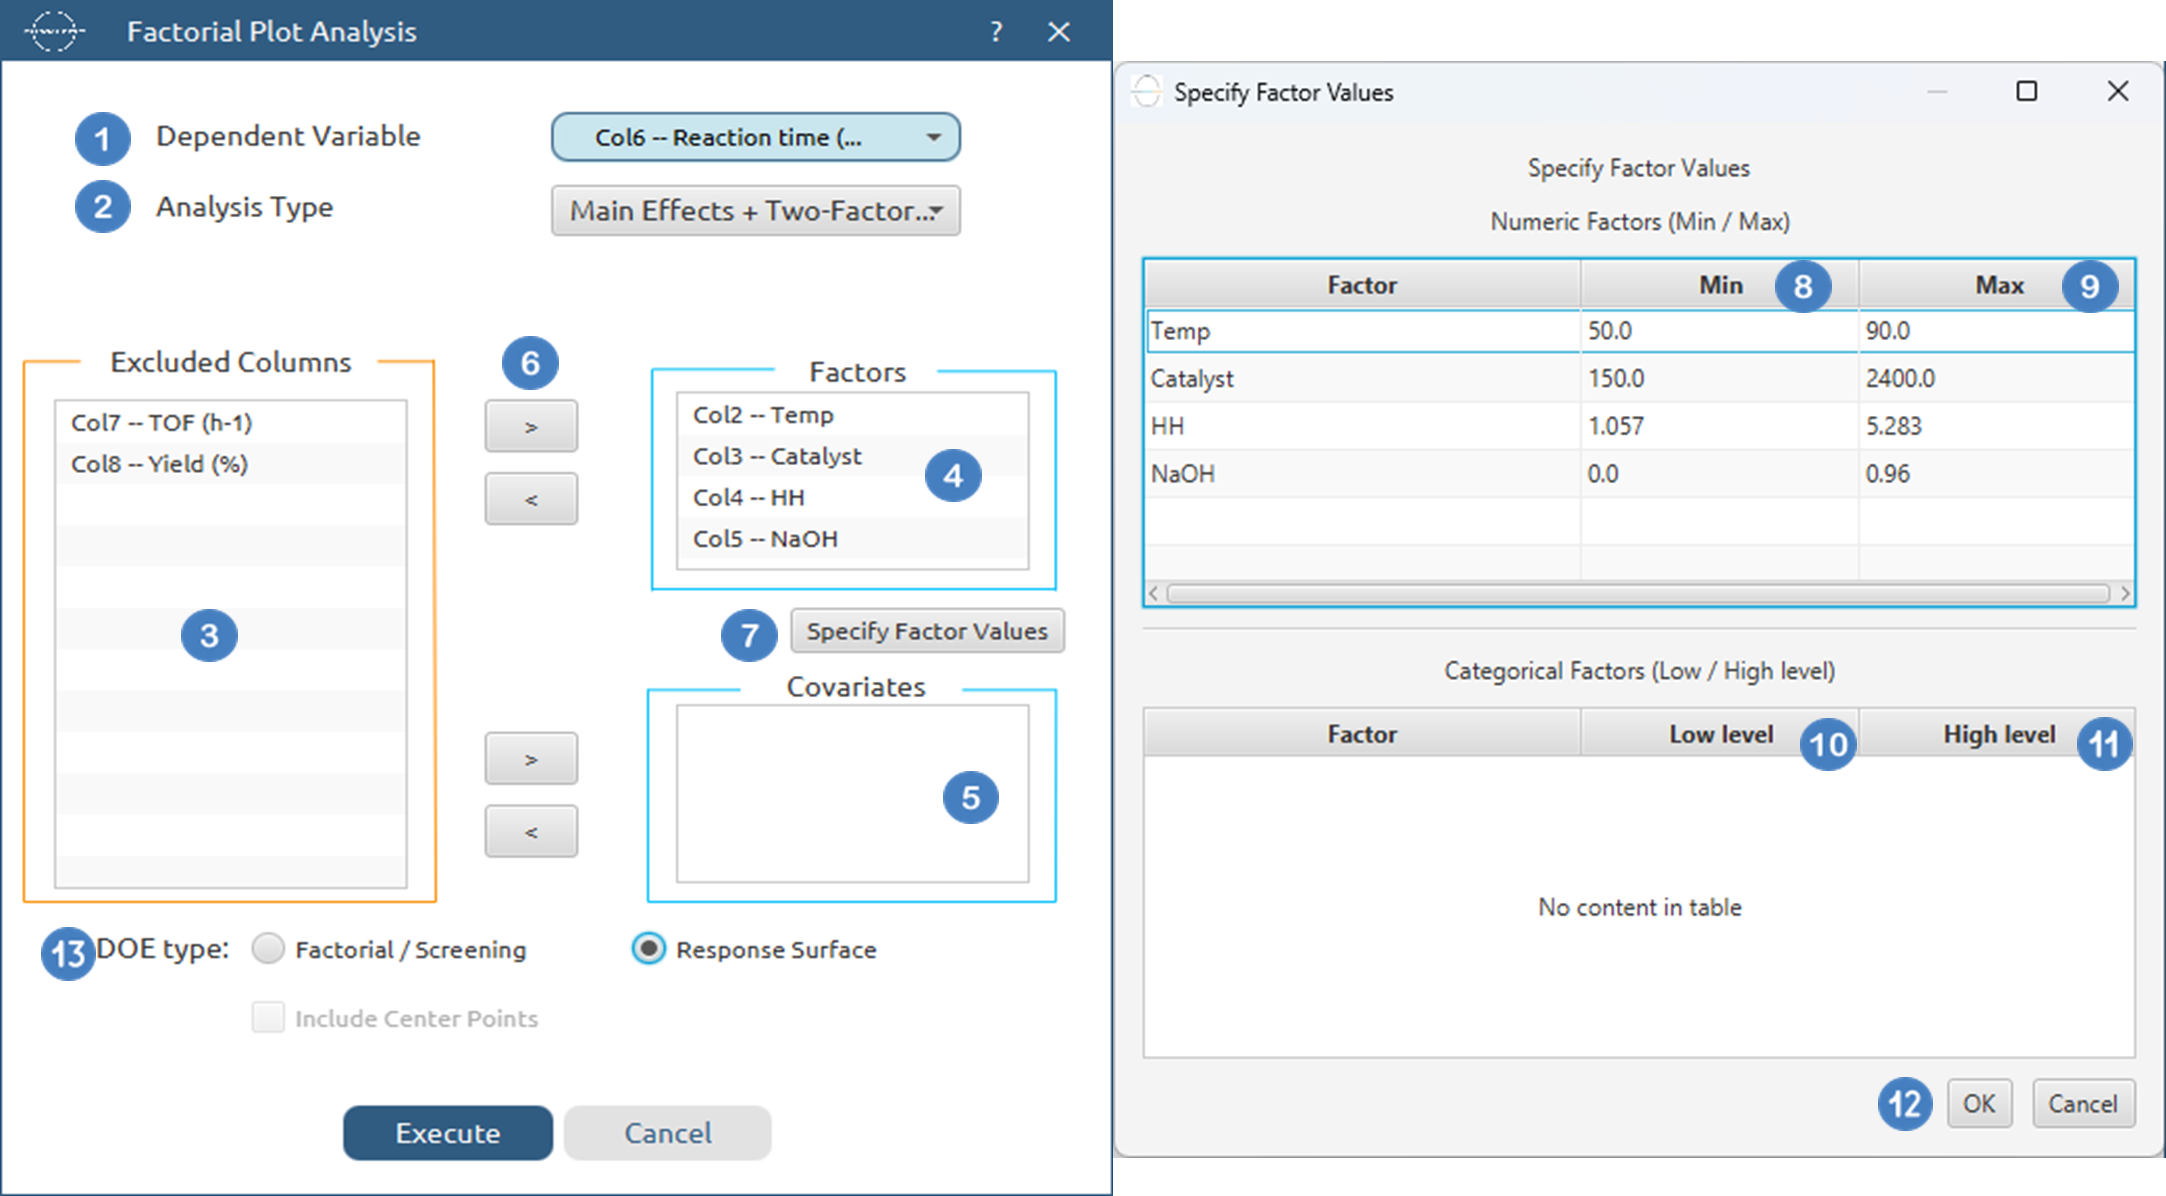
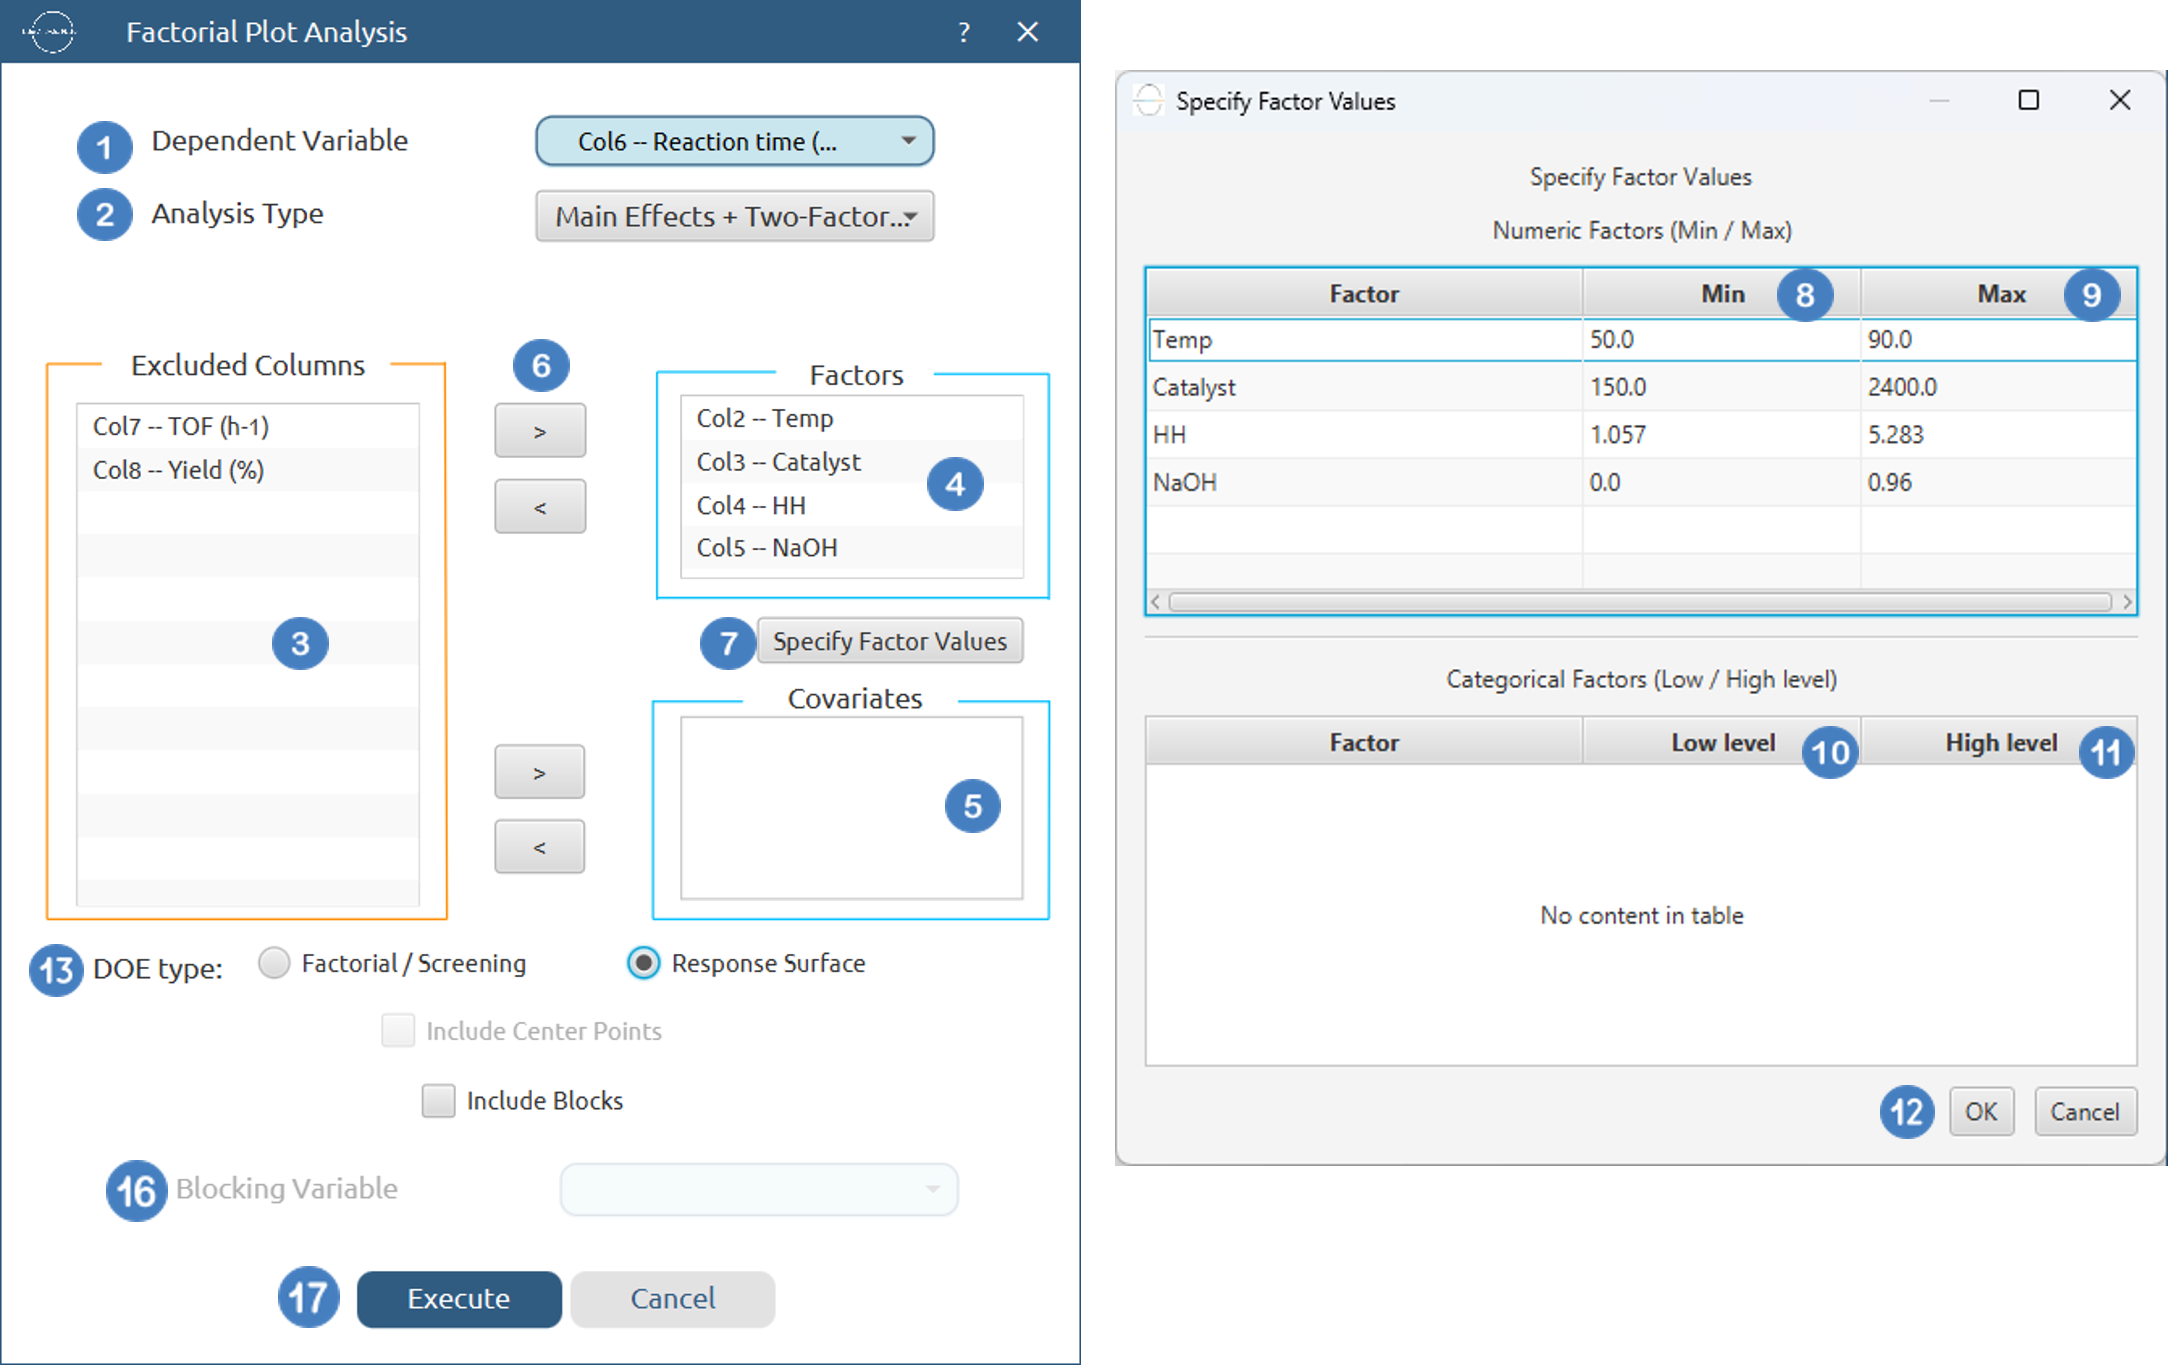
Blocking Variable in post DoE

diff --git a/docs/DoE/68PostDoEAnalysis.md b/docs/DoE/68PostDoEAnalysis.md
@@ -38,7 +38,7 @@ Use the `Pareto Analysis` tool by browsing in the top ribbon:
 ### Input
 {: .no_toc}
 
-All variables must be specified in the datasheet. The input to the algorithm consists of the results of a Design of Experiments (DoE) method, with the addition of the response calculated for each experimental run. The response variable must be strictly numerical. Experimental factors may be numerical or categorical. Categorical factors are permitted only when they contain exactly two levels. Additionally, categorical factors can only be included when the model does not contain quadratic terms. Each row corresponds to a single observation from the experiment. 
+All variables must be specified in the datasheet. The input to the algorithm consists of the results of a Design of Experiments (DoE) method, with the addition of the response calculated for each experimental run. The response variable must be strictly numerical. Experimental factors may be numerical or categorical. Categorical factors are permitted only when they contain exactly two levels. Additionally, categorical factors can only be included when the model does not contain quadratic terms. The blocking variable can be either numeric or categorical. Each row corresponds to a single observation from the experiment. 
 
 ### Configuration
 {: .no_toc}
@@ -49,6 +49,8 @@ All variables must be specified in the datasheet. The input to the algorithm con
 |**Factors/Covariates/Excluded Columns**| Select manually the columns that correspond to factors and the columns that correspond to covariates through the dialog window: Use the buttons to move columns between the Factors and Covariates list and Excluded Columns list. Single-arrow buttons will move all selected columns and double-arrow buttons will move all columns. At least one factor column should be specified. |
 |**DOE type**| Select whether you have performed a Factorial/Screening or a Response Surface Design. If categorical factors are selected the only acceptable option is Factorial/Screening. |
 |**Include Center Points**| If you have performed a Factorial/Screening design, select whether to include center points in the analysis.|
+|**Include Blocks**| Select whether to include a blocking term in the fitted model. Blocks are used when experimental runs were performed under different batches, days, operators, machines, or other known conditions that may introduce systematic variation. Including blocks helps adjust the model for this variation, so the effects of the selected factors are estimated more accurately.  |
+|**Blocking Variable**| Select the column that identifies the block membership of each experimental run. This column should contain the block labels, such as batch number, day, operator, or experimental group. The blocking variable is only available when Include Blocks is selected. |
 
 ### Output
 {: .no_toc}
@@ -75,7 +77,9 @@ In the input datasheet minimum requirement is to specify two columns, one factor
 1.  Select the columns by clicking on the arrow buttons [7] and moving columns between the `Excluded Columns` [4] , the `Factors` [5]  and `Covariates`[6] lists.
 1.  Select whether the DoE[8] method used before this step was a `Factorial/Screening` or a `Response Surface` method.
 1.  If the `Factorial/Screening` option is selected, select/tick to `Include Center Points`[9]. 
-1.  Click on the `Execute` button [10] to perform Pareto Analysis
+1.  Select/tick to `Include Blocks`[10]. 
+1.  If the `Include Blocks` option is selected, select the `Blocking Variable`[11] from the list of available options. This column can contain either numerical or categorical data.
+1.  Click on the `Execute` button [12] to perform Pareto Analysis
 <div style="text-align: center;">
 <img src="images/Design of experiments/postDoE-pareto-config.png" alt="Pareto config" width="400" height="400" class="img-responsive">
 </div> 
@@ -125,7 +129,7 @@ Use the `Factorial Plot Analysis` tool by browsing in the top ribbon:
 ### Input
 {: .no_toc}
 
-All variables must be specified in the datasheet. The input to the algorithm consists of the results of a Design of Experiments (DoE) method, with the addition of the response calculated for each experimental run. The response variable must be strictly numerical. Experimental factors may be numerical or categorical. Categorical factors are permitted only when they contain exactly two levels. Additionally, categorical factors can only be included when the model does not contain quadratic terms. Each row corresponds to a single observation from the experiment. 
+All variables must be specified in the datasheet. The input to the algorithm consists of the results of a Design of Experiments (DoE) method, with the addition of the response calculated for each experimental run. The response variable must be strictly numerical. Experimental factors may be numerical or categorical. Categorical factors are permitted only when they contain exactly two levels. Additionally, categorical factors can only be included when the model does not contain quadratic terms. The blocking variable can be either numeric or categorical. Each row corresponds to a single observation from the experiment. 
 
 ### Configuration
 {: .no_toc}
@@ -136,6 +140,8 @@ All variables must be specified in the datasheet. The input to the algorithm con
 |**Specify Factor Values**| Specify the low and high value for each factor to ensure the plots are generated correctly. By default, these values are initialized to the minimum and maximum observed values of each variable. |
 |**DOE type**| Select whether you have performed a Factorial/Screening or a Response Surface Design. If categorical factors are selected the only acceptable option is Factorial/Screening. |
 |**Include Center Points**| If you have performed a Factorial/Screening design, select whether to include center points in the analysis.|
+|**Include Blocks**| Select whether to include a blocking term in the fitted model. Blocks are used when experimental runs were performed under different batches, days, operators, machines, or other known conditions that may introduce systematic variation. Including blocks helps adjust the model for this variation, so the effects of the selected factors are estimated more accurately.  |
+|**Blocking Variable**| Select the column that identifies the block membership of each experimental run. This column should contain the block labels, such as batch number, day, operator, or experimental group. The blocking variable is only available when Include Blocks is selected. |
 
 ### Output
 {: .no_toc}
@@ -165,7 +171,9 @@ In the input datasheet minimum requirement is to specify two columns, one factor
 1.  Click on `Specify Factor Values`[7] to specify the `Min`[8] and `Max`[9] value for each numerical factor, the `Low level`[10] and `High level`[11] value for each categorical factor. Once they are specified click on `OK`[12].
 1.  Select whether the DoE[13] method used before this step was a `Factorial/Screening` or a `Response Surface` method.
 1.  If the `Factorial/Screening` option is selected, select/tick to `Include Center Points`[14]. 
-1.  Click on the `Execute` button [15] to perform Factorial Plot Analysis
+1.  Select/tick to `Include Blocks`[15]. 
+1.  If the `Include Blocks` option is selected, select the `Blocking Variable`[16] from the list of available options. This column can contain either numerical or categorical data.
+1.  Click on the `Execute` button [17] to perform Factorial Plot Analysis
 <div style="text-align: center;">
 <img src="images/Design of experiments/postDoE-factorial-config.png" alt="Factorial Config" width="400" height="400" class="img-responsive">
 </div> 
@@ -218,13 +226,15 @@ Use the `Multi-Objective Optimization` tool by browsing in the top ribbon:
 ### Input
 {: .no_toc}
 
-All variables must be specified in the datasheet. The input to the algorithm consists of the results of a Design of Experiments (DoE) method, with the addition of the response variables calculated for each experimental run. Response variables must be strictly numerical. Experimental factors may be numerical or categorical. Categorical factors are permitted only when they contain exactly two levels. Additionally, categorical factors can only be included when the model does not contain quadratic terms.Each row corresponds to a single observation from the experiment. 
+All variables must be specified in the datasheet. The input to the algorithm consists of the results of a Design of Experiments (DoE) method, with the addition of the response variables calculated for each experimental run. Response variables must be strictly numerical. Experimental factors may be numerical or categorical. Categorical factors are permitted only when they contain exactly two levels. Additionally, categorical factors can only be included when the model does not contain quadratic terms. The blocking variable can be either numeric or categorical. Each row corresponds to a single observation from the experiment. 
 
 ### Configuration
 {: .no_toc}
 
 |**Analysis Type**| Select the desired analysis type for the analysis. Available options include: Main Effects, Main Effects + Two-Factor, Main Effects + Two Factor + Three Factor, Main Effects + Quadratic, Main Effects + Two-Factor + Quadratic, Main Effects + Two Factor + Three Factor + Quadratic, Full Factorial. For screening/factorial designs, it is recommended not to include quadratic terms, while for response surface designs, quadratic terms should typically be included. If there are categorical factors in the analysis then quadratic factors cannot be selected.|
 |**Confidence Level**| Specify the confidence level for the analysis. Values should range from 0 to 100 with the default value being 95 |
+|**Include Blocks**| Select whether to include a blocking term in the fitted model. Blocks are used when experimental runs were performed under different batches, days, operators, machines, or other known conditions that may introduce systematic variation. Including blocks helps adjust the model for this variation, so the effects of the selected factors are estimated more accurately.  |
+|**Blocking Variable**| Select the column that identifies the block membership of each experimental run. This column should contain the block labels, such as batch number, day, operator, or experimental group. The blocking variable is only available when Include Blocks is selected. |
 |**Factors/Dependent Variables/Excluded Columns**| Select manually the columns that correspond to factors and the columns that correspond to dependent variables through the dialog window: Use the buttons to move columns between the Factors and Dependent Variables list and Excluded Columns list.  At least one factor column and one Dependent Variable Column should be specified. |
 |**Specify Factor Values**| Specify the low and high value for each factor to ensure the plots are generated correctly. By default, these values are initialized to the minimum and maximum observed values of each variable. Optionally specify constraints to fix factors to a specific value within the allowed range.|
 |**Specify Dependent Variable Ranges**| Specify the minimum and maximum acceptable value for each dependent variable to correctly set objective goals and compute individual desirabilities. By default, these values are initialized to the minimum and maximum observed values of each variable.|
@@ -254,12 +264,14 @@ In the input datasheet minimum requirement is to specify two columns, one factor
 1.  Select `DOE` → `Post DoE Analysis` →`Multi-Objective Optimization`.
 1.  Select the `Analysis Type` [1] from the list of available options : `Main Effects`, `Main Effects` + `Quadratic`, `Main Effects + Two Factor`, `Main Effects + Two Factor + Quadratic`, `Main Effects + Two Factor + Three Factor`, `Main Effects + Two Factor + Three Factor + Quadratic`, `Full Factorial`
 1.  Specify the `Significance Level`[2] used to calculate the confidence intervals. Default value is 95.
-1.  Select the columns by clicking on the arrow buttons [3],[4] and moving columns between the `Excluded Columns` [5] , the `Factors` [6]  and `Dependent Variables`[7] lists.
-1.  Specify the `Goal` [8], the `Target Value`[9] if the Target goal is selected, the `Scale`[10] and the `Importance`[11] of each dependent variable.
-1.  Click on `Specify Factor Values`[12] to specify the `Min`[14] and `Max`[15] value for each numerical factor, the `Low level`[15] and `High level`[16] value for each categorical factor and optionally constrain factors to a `Fixed Value`[17]. Once they are specified click on `OK`[18].
-1.  Click on `Specify Dependent Variable Ranges`[19] to specify the `Min`[20] and `Max`[21] value for each dependent variable . Once they are specified click on `OK`[22].
-1.  Click on `Optimize on the Discretized Space (Only factor values that appear in the dataset will be considered)` [23] to only optimize on the discretized space.
-1.  Click on the `Execute` button [24] to perform Multi-Objective optimization
+1.  Select/tick to `Include Blocks`[3]. 
+1.  If the `Include Blocks` option is selected, select the `Blocking Variable`[4] from the list of available options. This column can contain either numerical or categorical data.
+1.  Select the columns by clicking on the arrow buttons [5],[6] and moving columns between the `Excluded Columns` [7] , the `Factors` [8]  and `Dependent Variables`[9] lists.
+1.  Specify the `Goal` [10], the `Target Value`[11] if the Target goal is selected, the `Scale`[12] and the `Importance`[13] of each dependent variable.
+1.  Click on `Specify Factor Values`[14] to specify the `Min`[15] and `Max`[16] value for each numerical factor, the `Low level`[17] and `High level`[18] value for each categorical factor and optionally constrain factors to a `Fixed Value`[19]. Once they are specified click on `OK`[20].
+1.  Click on `Specify Dependent Variable Ranges`[21] to specify the `Min`[22] and `Max`[23] value for each dependent variable . Once they are specified click on `OK`[24].
+1.  Click on `Optimize on the Discretized Space (Only factor values that appear in the dataset will be considered)` [25] to only optimize on the discretized space.
+1.  Click on the `Execute` button [26] to perform Multi-Objective optimization
 <div style="text-align: center;">
 <img src="images/Design of experiments/postDoE-multiObjective-config.png" alt="Multi-Objective Optimization config" width="800" height="550" class="img-responsive">
 </div> 
